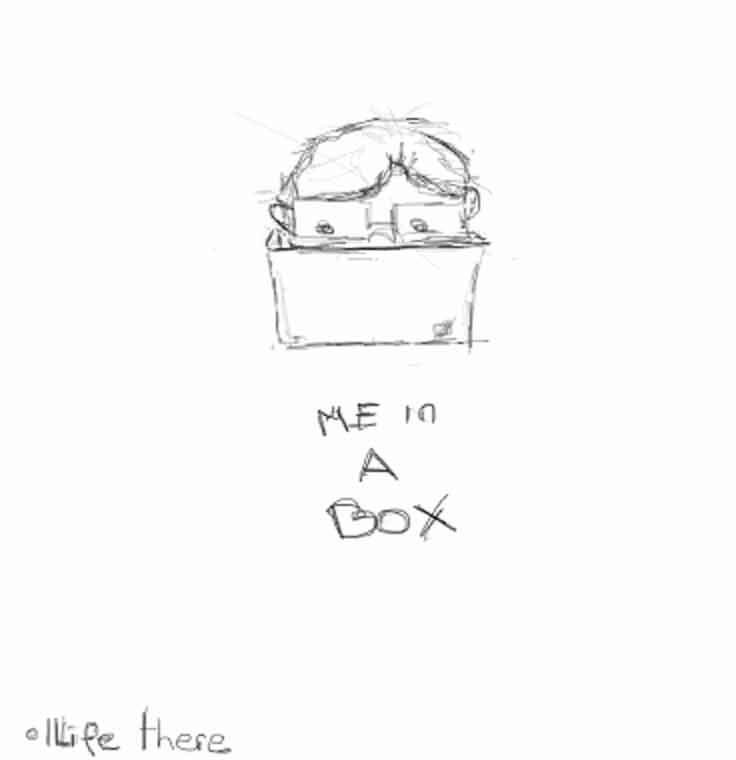
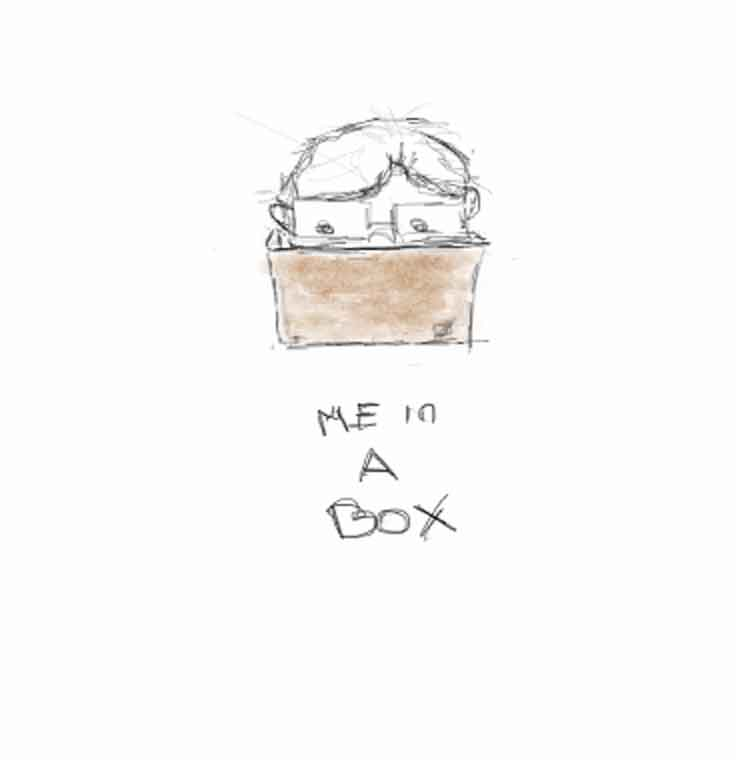
updated first drafts of doodles

Changed region(s): [[0.3438, 0.3026, 0.6562, 0.4539], [0.0312, 0.9382, 0.1562, 0.9987], [0.1875, 0.9382, 0.3125, 0.9987]]

diff --git a/index.html b/index.html
@@ -43,6 +43,7 @@
                     </h1>
                     <figure class="slide">
                         <img src="images/slides/meinabox.jpg" alt="Myself looking out of a box">
+                        <figcaption>Me in a Box - Myself in abstraction.</figcaption>
                     </figure>
                     <figure class="slide">
                         <img src="images/slides/imawebdev.jpg" alt="I am a Web Developer">
@@ -53,8 +54,12 @@
                         <figcaption class="visuallyhidden">I'm a Stargazer</figcaption>
                     </figure>
                     <figure class="slide">
-                        <img src="images/slides/hobby.jpg" alt="One of my Hobbys, sleeping">
-                        <figcaption class="visuallyhidden">Sleeping is in fakt a Hobby, in my opinion.</figcaption>
+                        <img src="images/slides/imdoodling.jpg" alt="I'm doodling">
+                        <figcaption class="visuallyhidden">As you may see, I am doodling</figcaption>
+                    </figure>
+                    <figure class="slide">
+                        <img src="images/slides/moretocome.jpg" alt="More doodles to come!">
+                        <figcaption class="visuallyhidden">I will add some more doodles about me, over the time. It may be that sometimes the doodles will be totally crap or imaginary supid.</figcaption>
                     </figure>
                     <!-- mutch more to come -->
                 </div>
